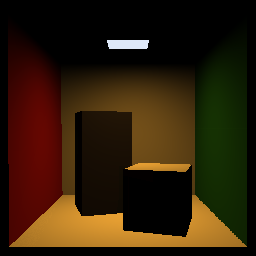
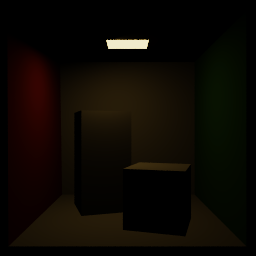
no message

diff --git a/pathtracer.cpp b/pathtracer.cpp
@@ -50,6 +50,7 @@ void PathTracer::traceScene(QRgb *imageData, const Scene& scene)
     Matrix4f invViewMat = (scene.getCamera().getScaleMatrix() * scene.getCamera().getViewMatrix()).inverse();
     for(int y = 0; y < m_height; ++y) {
         //#pragma omp parallel for
+        //std::cout << y << std::endl;
         for(int x = 0; x < m_width; ++x) {
             int offset = x + (y * m_width);
            // intensityValues[offset] = tracePixel(x, y, scene, invViewMat);
@@ -76,11 +77,11 @@ Vector3f PathTracer::tracePixel(int x, int y, const Scene& scene, const Matrix4f
    // for(int pxs=0;pxs<50;pxs++)
    // {
         // view port space
-        std::default_random_engine generator;
-        std::uniform_real_distribution<float> distribution;
-        Vector3f randomRay(2.0 * distribution(generator) - 1,1 - (2.f * distribution(generator) / m_height),0);
-        Vector3f d(((2.f * x / m_width) - 1),
-                   (1 - (2.f * y / m_height)), -1);
+
+        Vector2f myrand = (Vector2f::Random () + Vector2f::Ones())/2;
+        //Vector3f randomRay(2.0 * distribution(generator) - 1,1 - (2.f * distribution(generator) / m_height),0);
+        Vector3f d(((2.f * (x+ myrand.x()) / m_width) - 1),
+                   (1 - (2.f * (y+ myrand.y()) / m_height)), -1);
 
         d.normalize();
 
@@ -105,7 +106,7 @@ Vector3f PathTracer::traceRay(const Ray& r, const Scene& scene, int bounce )
 
 
     std::default_random_engine generator;
-    std::uniform_real_distribution<float> distribution;
+    std::uniform_real_distribution<float> distribution(0,1);
     float random = distribution(generator);
 
     if(bounce >= 5)
@@ -137,15 +138,14 @@ Vector3f PathTracer::traceRay(const Ray& r, const Scene& scene, int bounce )
 
         Vector3f vdirectLight;
         //if(pvEmission != Vector3f::Zero())
-         Vector3f L  = directLight(sceneLights,px,hitNormal,diffuseV);
+        Vector3f L = Vector3f::Zero();
+        Vector3f dL  = directLight(sceneLights,px,hitNormal,diffuseV);
          //Vector3f L  = diffuseV + pvEmission;
 
 
 
-
-        float r1 = distribution(generator);
-        float r2 = distribution(generator);
-        Vector3f sample = uniformHemiSphere(r1, r2);
+        Vector2f myrand = (Vector2f::Random () + Vector2f::Ones())/2;
+        Vector3f sample = uniformHemiSphere(myrand.x(), myrand.y());
         Vector3f v1(0.0,0.0,0.0);
         Vector3f v2(0.0,0.0,0.0);
         createNormalPlane(hitNormal,v1,v2);
@@ -155,7 +155,7 @@ Vector3f PathTracer::traceRay(const Ray& r, const Scene& scene, int bounce )
         wi[2]= sample.x() * v2.z() + sample.y() * hitNormal.z() + sample.z() * v1.z();
         ray.o = px;
         ray.d = wi;
-        float costheta = ray.d.dot(hitNormal);
+        float costheta = std::fmax(0.0,ray.d.dot(hitNormal));
         float pdf = 1 / (2 * M_PI);
 
 
@@ -163,20 +163,19 @@ Vector3f PathTracer::traceRay(const Ray& r, const Scene& scene, int bounce )
         Vector3f lr = traceRay(ray,scene,bounce+1)  ;
         Vector3f  brdf = diffuseV/M_PI;
 
-        Vector3f incoming  =   lr.array() * brdf.array() *  costheta /pdf * 0.1 ;
+        Vector3f incoming  =   (lr.array()   * brdf.array()) * costheta / (pdf * 0.1) ;
 
-        Vector3f tonedIncomming  =  incoming /  1 +incoming;
-
-        L +=  tonedIncomming  ;
-
+        //L =  incoming  ;
+        //L = dL + incoming;
+        L = dL;
         if(bounce == 0 )
         {
-           Vector3f emission =  pvEmission;
-           Vector3f tonedEmission = emission /  1 + emission ;
-           L +=tonedEmission;
+           L +=  (pvEmission);
+
+          //     L += emission ;
         }
         return L;
-       //  return Vector3f(d[0] , d[1], d[2]);
+
     } else {
         //std::cout << "NOT HIT     2" << std::endl;
         return Vector3f(0, 0, 0);
@@ -217,11 +216,23 @@ Vector3f PathTracer::directLight(const std::vector<CS123SceneLightData>& sceneLi
       Vector3f v1(0.0,0.0,0.0);
       Vector3f v2(0.0,0.0,0.0);
       Vector3f v3(0.0,0.0,0.0);
+
+      Vector3f n1(0.0,0.0,0.0);
+      Vector3f n2(0.0,0.0,0.0);
+      Vector3f n3(0.0,0.0,0.0);
+
       t->getVertices(v1,v2,v3);
+      t->getVertices(n1,n2,n3);
       std::vector<Vector3f> vVertices;
+      std::vector<Vector3f> vNormals;
       vVertices.push_back(v1);
       vVertices.push_back(v2);
       vVertices.push_back(v3);
+      vNormals.push_back(n1);
+      vNormals.push_back(n2);
+      vNormals.push_back(n3);
+
+
       Vector3f lightColor(t->getMaterial().emission[0],t->getMaterial().emission[1],t->getMaterial().emission[2]);
       Vector3f lightDiffuse(t->getMaterial().diffuse[0],t->getMaterial().diffuse[1],t->getMaterial().diffuse[2]);
       Vector3f lightAmbient(t->getMaterial().ambient[0],t->getMaterial().ambient[1],t->getMaterial().ambient[2]);
@@ -230,32 +241,37 @@ Vector3f PathTracer::directLight(const std::vector<CS123SceneLightData>& sceneLi
       Vector3f v13 = v3-v1;
       float triangleArea = std::abs(v12.cross(v13).norm())/2;
 
-
-      for(size_t j = 0 ; j < vVertices.size();j++)
+      Vector3f accum(0.0,0.0,0.0);
+      for(size_t j = 0 ; j < 1;j++)
       {
 
           Vector3f lightPosition = vVertices[j];
-          Vector3f normalV = t->getNormal(lightPosition);
+          //Vector3f normalV = t->getNormal(lightPosition);
+          Vector3f normalV =vNormals[j];
 
           Vector3f lightDir = (hitPos -lightPosition).normalized() ;
+          Vector3f lightDirPrime = (lightPosition - hitPos).normalized() ;
 
-          float costheta = std::fmax(0.0,hitNormal.dot(-lightDir));
-          float costhetaPrime = std::fmax(0.0,normalV.dot(lightDir));
+          float costheta = std::fmax(0.0,hitNormal.dot(lightDirPrime));
+          float costhetaPrime = std::fmax(0.0,normalV.dot(-lightDir));
 
-          float lenght = lightDir.norm();
+          float lenght = (hitPos -lightPosition).norm();
           float lenght2 = lenght * lenght;
 
 
-          Vector3f light = (hitColor.array() * lightColor.array()) * (1/M_PI) *costheta*costhetaPrime* (1 / lenght2) * triangleArea;
-          light = light /  1 + light;
+          Vector3f light = ( lightColor ) * 1/M_PI
+                  * costheta*costhetaPrime* (1 / lenght2) * triangleArea  ;
+         // light = light /  1 + light;
 
 
-          directLight+= light;
+          accum = (hitColor.array() * light.array()) ;
       }
-        directLight = directLight / 3 ;
+         //Vector3f s =  accum.array() ;
+         directLight += accum;
+         //directLight *= 1/3  ;
     }
 
-    return directLight ;
+    return directLight/2  ;
 
 }
 
@@ -270,9 +286,10 @@ void PathTracer::toneMap(QRgb *imageData, std::vector<Vector3f> &intensityValues
             /*imageData[offset] = qRgb(currentIntensity[0] *255.0,
                                      currentIntensity[1]*255.0,
                                      currentIntensity[2]*255.0);*/
-            imageData[offset] = qRgb(currentIntensity[0] *255.0,
-                                                 currentIntensity[1]*255.0,
-                                                 currentIntensity[2]*255.0);
+            Vector3f tonedColor = currentIntensity.array() / (Vector3f(1,1,1) + currentIntensity).array();
+            imageData[offset] = qRgb(tonedColor[0] *255.0,
+                                                 tonedColor[1]*255.0,
+                                                 tonedColor[2]*255.0);
         }
     }
 
